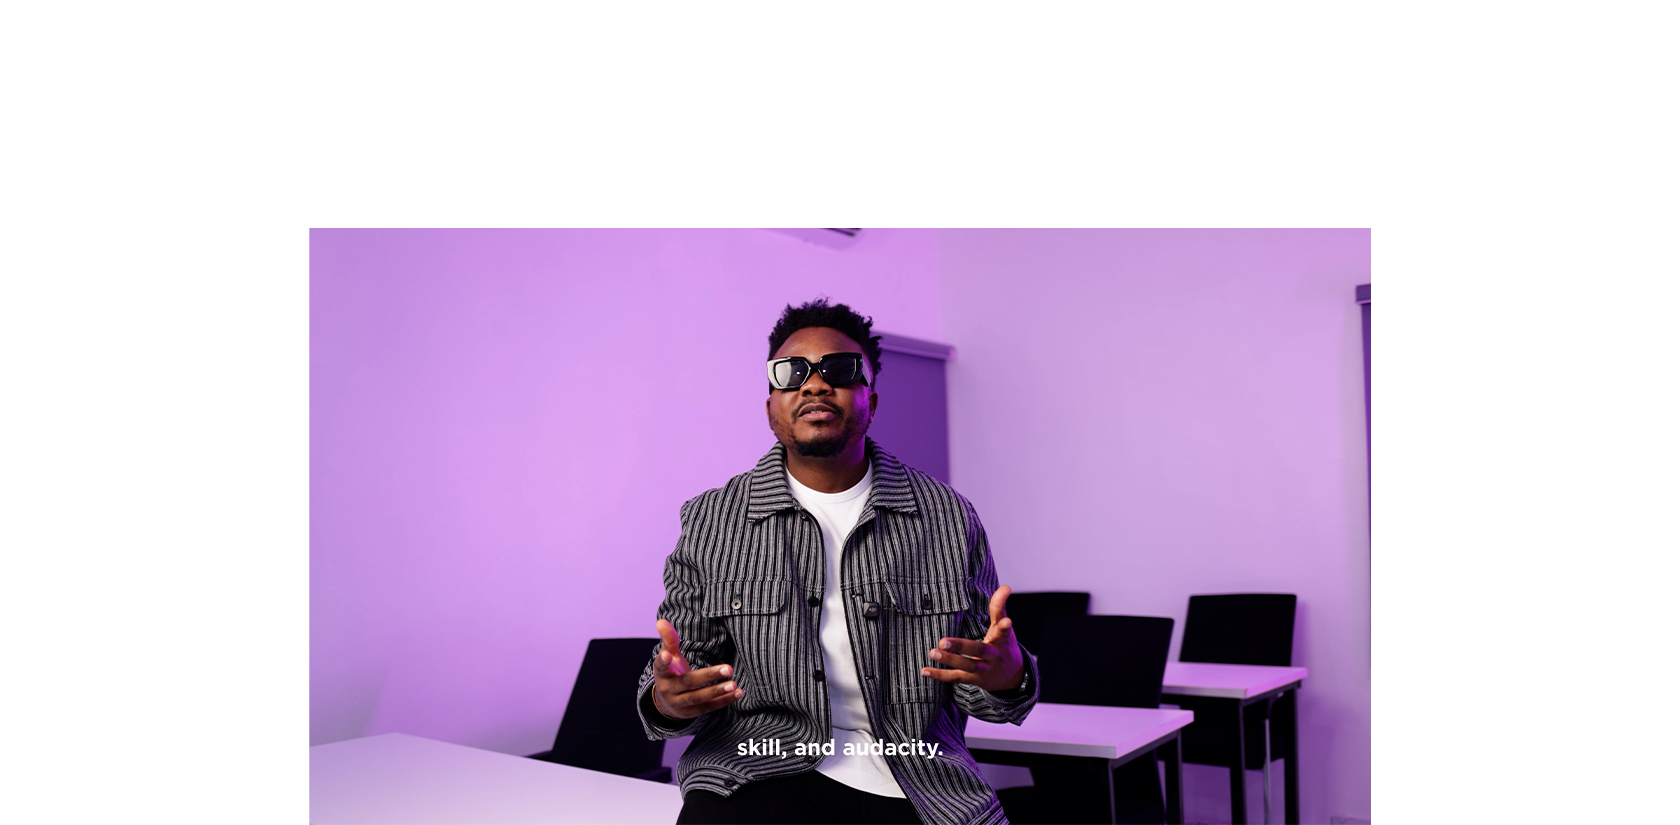
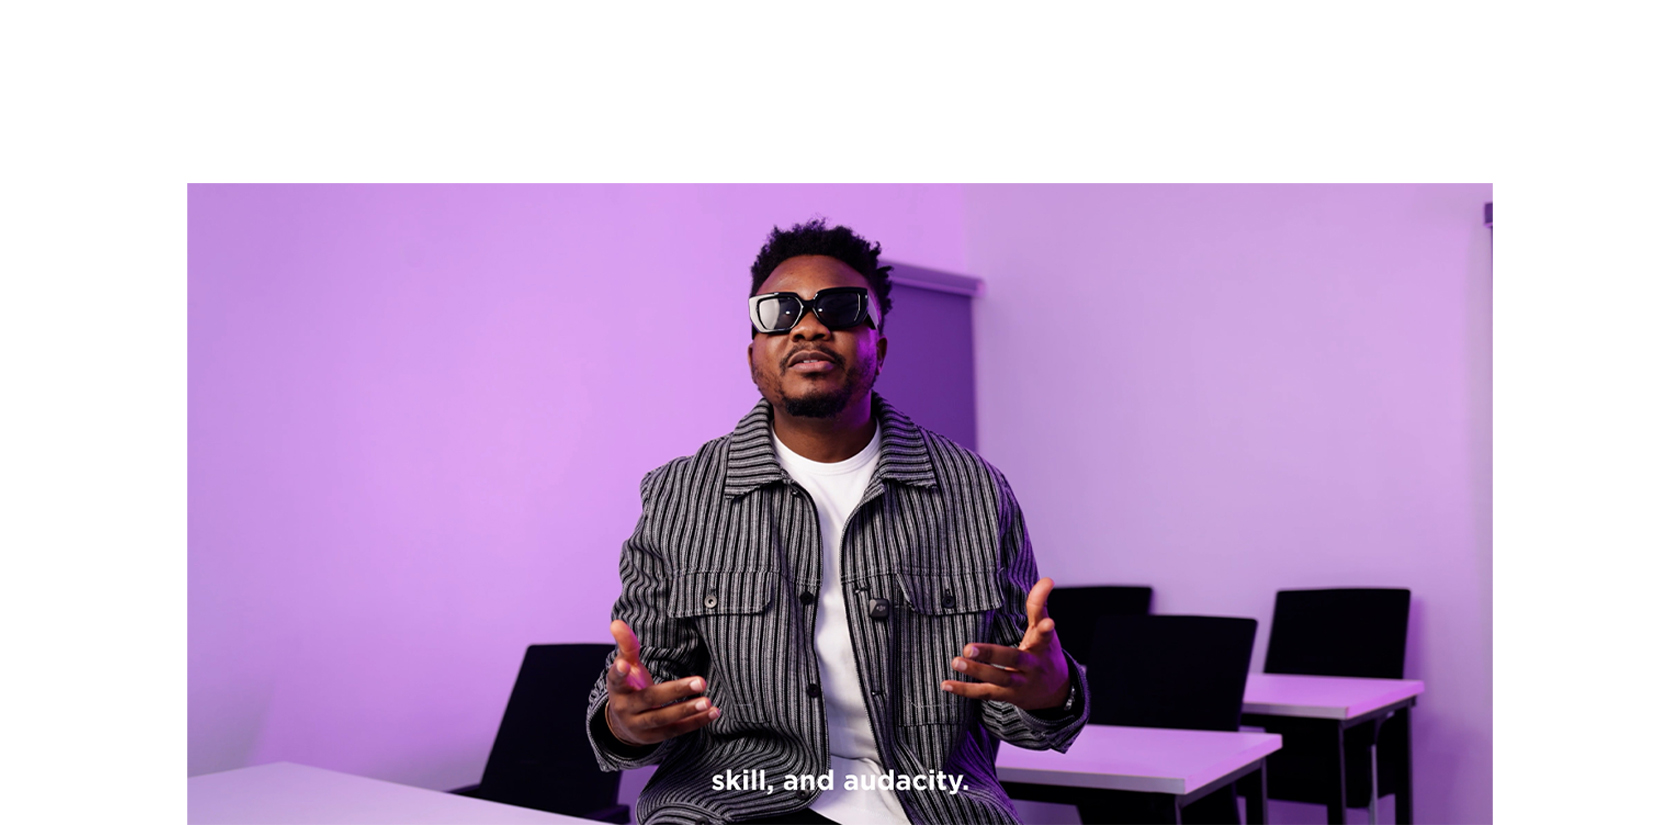
nn

diff --git a/index.html b/index.html
@@ -465,8 +465,9 @@
 
     <!-- Start Video Area
     ============================================= -->
-    <div class="video-area padding-xl text-center bg-fixed text-light shadow dark-hard" style="background-image: url(assets/img/video.jpg);">
-        <div class="container">
+   <div class="video-area padding-xl text-center bg-fixed text-light shadow dark-hard"
+     style="background-image: url(assets/img/video.jpg); background-size: cover; background-position: top center;">
+<div class="container">
             <div class="row">
                 <div class="col-lg-8 offset-lg-2">
                     <div class="video-heading">

diff --git a/style.css b/style.css
@@ -65,6 +65,8 @@ Table of contents
 ** General Styles for HTML tags
 */
 
+
+
 @import url('https://fonts.googleapis.com/css2?family=Manrope:wght@200;300;400;500;600;700;800&display=swap');
 
 * {
